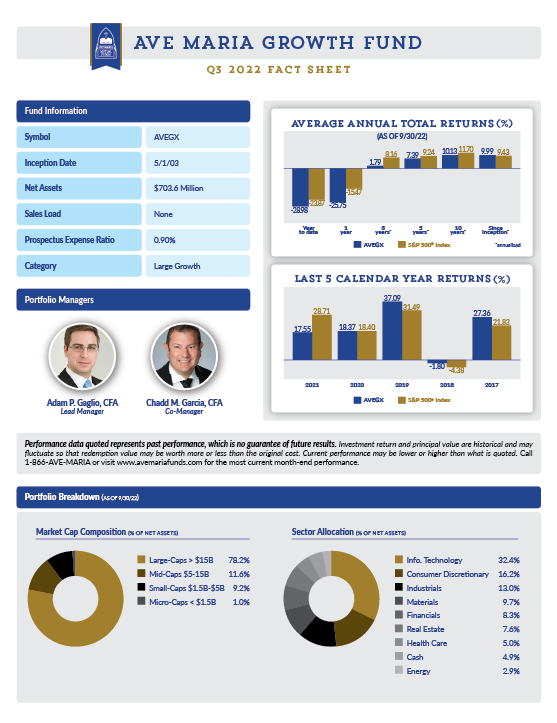
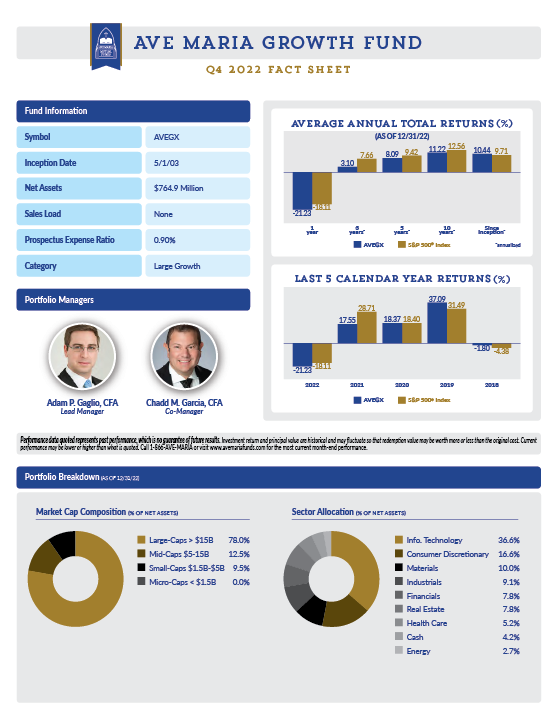
FACT SHEETS – 4Q 2022 new files

diff --git a/financial-insight/financial-advisor-resources.html b/financial-insight/financial-advisor-resources.html
@@ -250,75 +250,75 @@
                         <div class="col-lg-offset-3 col-lg-6 col-md-offset-3 col-md-6 col-sm-offset-1 col-sm-10 col-xs-offset-1 col-xs-10">
                             <ul>
                                 <li>
-                                    <a href="#" data-resource="../pdfs/financial-advisor-resources/AMMF talking-about-mri.pdf?v=3Q2022.1" class="am-login-required"> <span class="am-title">A Guide to Talking about Morally Responsible Investing</span> <span class="am-content">The who, what, and why about MRI</span> </a>
+                                    <a href="#" data-resource="../pdfs/financial-advisor-resources/AMMF talking-about-mri.pdf?v=4Q2022.1" class="am-login-required"> <span class="am-title">A Guide to Talking about Morally Responsible Investing</span> <span class="am-content">The who, what, and why about MRI</span> </a>
                                 </li>
                                 <li>
-                                    <a href="#" data-resource="../pdfs/financial-advisor-resources/AMMF history-of-consistency.pdf?v=3Q2022.1" class="am-login-required"> <span class="am-title">A History of Consistency</span> <span class="am-content">The Ave Maria Bond Fund is in exclusive company</span> </a>
+                                    <a href="#" data-resource="../pdfs/financial-advisor-resources/AMMF history-of-consistency.pdf?v=4Q2022.1" class="am-login-required"> <span class="am-title">A History of Consistency</span> <span class="am-content">The Ave Maria Bond Fund is in exclusive company</span> </a>
                                 </li>
                                 <li>
-                                    <a href="#" data-resource="../pdfs/financial-advisor-resources/AMMF intro-ammf.pdf?v=3Q2022.1" class="am-login-required"> <span class="am-title">An Introduction to Ave Maria Mutual Funds</span> <span class="am-content">Learn about our people, processes and structure</span> </a>
+                                    <a href="#" data-resource="../pdfs/financial-advisor-resources/AMMF intro-ammf.pdf?v=4Q2022.1" class="am-login-required"> <span class="am-title">An Introduction to Ave Maria Mutual Funds</span> <span class="am-content">Learn about our people, processes and structure</span> </a>
                                 </li>
                                 <li>
-                                    <a href="#" data-resource="../pdfs/financial-advisor-resources/AMMF experience-consistency.pdf?v=3Q2022.1" class="am-login-required"> <span class="am-title">Ave Maria Mutual Funds Experience and Consistency</span> <span class="am-content">Two key factors in choosing a mutual fund</span> </a>
+                                    <a href="#" data-resource="../pdfs/financial-advisor-resources/AMMF experience-consistency.pdf?v=4Q2022.1" class="am-login-required"> <span class="am-title">Ave Maria Mutual Funds Experience and Consistency</span> <span class="am-content">Two key factors in choosing a mutual fund</span> </a>
                                 </li>
                                 <li>
-                                    <a href="#" data-resource="../pdfs/financial-advisor-resources/AMMF investment-process.pdf?v=3Q2022.1" class="am-login-required"> <span class="am-title">Ave Maria Mutual Funds Investment Process</span> <span class="am-content">Learn more about how we manage money</span> </a>
+                                    <a href="#" data-resource="../pdfs/financial-advisor-resources/AMMF investment-process.pdf?v=4Q2022.1" class="am-login-required"> <span class="am-title">Ave Maria Mutual Funds Investment Process</span> <span class="am-content">Learn more about how we manage money</span> </a>
                                 </li>
                                 <li>
-                                    <a href="#" data-resource="../pdfs/financial-advisor-resources/AMMF profile.pdf?v=3Q2022.1" class="am-login-required"> <span class="am-title">Ave Maria Mutual Funds Profile</span> <span class="am-content">Who we are, what makes us different and what we do for our shareholders</span> </a>
+                                    <a href="#" data-resource="../pdfs/financial-advisor-resources/AMMF profile.pdf?v=4Q2022.1" class="am-login-required"> <span class="am-title">Ave Maria Mutual Funds Profile</span> <span class="am-content">Who we are, what makes us different and what we do for our shareholders</span> </a>
                                 </li>
                                 <li>
-                                    <a href="#" data-resource="../pdfs/financial-advisor-resources/AMMF bond-fund-highlights.pdf?v=3Q2022.1" class="am-login-required"> <span class="am-title">Bond Fund Highlights</span> <span class="am-content">Conservative, high-quality bond fund has delivered consistent results</span> </a>
+                                    <a href="#" data-resource="../pdfs/financial-advisor-resources/AMMF bond-fund-highlights.pdf?v=4Q2022.1" class="am-login-required"> <span class="am-title">Bond Fund Highlights</span> <span class="am-content">Conservative, high-quality bond fund has delivered consistent results</span> </a>
                                 </li>
                                 <li>
-                                    <a href="#" data-resource="../pdfs/financial-advisor-resources/AMMF bond-fund-presentation-book.pdf?v=3Q2022.1" class="am-login-required"> <span class="am-title">Bond Fund Presentation Book</span> <span class="am-content">Learn more about our people, process and performance</span> </a>
+                                    <a href="#" data-resource="../pdfs/financial-advisor-resources/AMMF bond-fund-presentation-book.pdf?v=4Q2022.1" class="am-login-required"> <span class="am-title">Bond Fund Presentation Book</span> <span class="am-content">Learn more about our people, process and performance</span> </a>
                                 </li>
                                 <li>
-                                    <a href="#" data-resource="../pdfs/financial-advisor-resources/AMMF equity-investment-process.pdf?v=3Q2022.1" class="am-login-required"> <span class="am-title">Equity Investment Process</span> <span class="am-content">Details on our buy and sell disciplines and how we control risk</span> </a>
+                                    <a href="#" data-resource="../pdfs/financial-advisor-resources/AMMF equity-investment-process.pdf?v=4Q2022.1" class="am-login-required"> <span class="am-title">Equity Investment Process</span> <span class="am-content">Details on our buy and sell disciplines and how we control risk</span> </a>
                                 </li>
                                 <li>
-                                    <a href="#" data-resource="../pdfs/financial-advisor-resources/AMMF focused-fund-presentation-book.pdf?v=3Q2022.1" class="am-login-required"> <span class="am-title">Focused Fund Presentation Book</span> <span class="am-content">Learn more about our people, process and performance</span> </a>
+                                    <a href="#" data-resource="../pdfs/financial-advisor-resources/AMMF focused-fund-presentation-book.pdf?v=4Q2022.1" class="am-login-required"> <span class="am-title">Focused Fund Presentation Book</span> <span class="am-content">Learn more about our people, process and performance</span> </a>
                                 </li>
                                 <li>
-                                    <a href="#" data-resource="../pdfs/financial-advisor-resources/AMMF growth-fund-presentation-book.pdf?v=3Q2022.1" class="am-login-required"> <span class="am-title">Growth Fund Presentation Book</span> <span class="am-content">Learn more about our people, process and investment results</span> </a>
+                                    <a href="#" data-resource="../pdfs/financial-advisor-resources/AMMF growth-fund-presentation-book.pdf?v=4Q2022.1" class="am-login-required"> <span class="am-title">Growth Fund Presentation Book</span> <span class="am-content">Learn more about our people, process and investment results</span> </a>
                                 </li>
                                 <li>
-                                    <a href="#" data-resource="../pdfs/financial-advisor-resources/AMMF growth-fund-qa.pdf?v=3Q2022.1" class="am-login-required"> <span class="am-title">Growth Fund Q&amp;A</span> <span class="am-content">Interview with portfolio management team</span> </a>
+                                    <a href="#" data-resource="../pdfs/financial-advisor-resources/AMMF growth-fund-qa.pdf?v=4Q2022.1" class="am-login-required"> <span class="am-title">Growth Fund Q&amp;A</span> <span class="am-content">Interview with portfolio management team</span> </a>
                                 </li>
                                 <li>
-                                    <a href="#" data-resource="../pdfs/financial-advisor-resources/AMMF investing-moral-high-ground.pdf?v=3Q2022.1" class="am-login-required"> <span class="am-title">Investing While Taking the Moral High Ground</span> <span class="am-content">Read our whitepaper on Morally Responsible Investing</span> </a>
+                                    <a href="#" data-resource="../pdfs/financial-advisor-resources/AMMF investing-moral-high-ground.pdf?v=4Q2022.1" class="am-login-required"> <span class="am-title">Investing While Taking the Moral High Ground</span> <span class="am-content">Read our whitepaper on Morally Responsible Investing</span> </a>
                                 </li>
                                 <li>
-                                    <a href="#" data-resource="../pdfs/financial-advisor-resources/AMMF managing-market-volatility.pdf?v=3Q2022.1" class="am-login-required"> <span class="am-title">Managing Market Volatility</span> <span class="am-content">How our funds perform in up and down markets</span> </a>
+                                    <a href="#" data-resource="../pdfs/financial-advisor-resources/AMMF managing-market-volatility.pdf?v=4Q2022.1" class="am-login-required"> <span class="am-title">Managing Market Volatility</span> <span class="am-content">How our funds perform in up and down markets</span> </a>
                                 </li>
                                 <li>
-                                    <a href="#" data-resource="../pdfs/financial-advisor-resources/AMMF prospecting-letter.pdf?v=3Q2022.1" class="am-login-required"> <span class="am-title">Prospecting Letter</span> <span class="am-content">Introduce your current or prospective clients to the Ave Maria Mutual Funds</span> </a>
+                                    <a href="#" data-resource="../pdfs/financial-advisor-resources/AMMF prospecting-letter.pdf?v=4Q2022.1" class="am-login-required"> <span class="am-title">Prospecting Letter</span> <span class="am-content">Introduce your current or prospective clients to the Ave Maria Mutual Funds</span> </a>
                                 </li>
                                 <li>
-                                    <a href="#" data-resource="../pdfs/financial-advisor-resources/AMMF retirement-reference-guide.pdf?v=3Q2022.1" class="am-login-required"> <span class="am-title">Retirement Reference Guide</span> <span class="am-content">Contribution limits, deductions and more</span> </a>
+                                    <a href="#" data-resource="../pdfs/financial-advisor-resources/AMMF retirement-reference-guide.pdf?v=4Q2022.1" class="am-login-required"> <span class="am-title">Retirement Reference Guide</span> <span class="am-content">Contribution limits, deductions and more</span> </a>
                                 </li>
                                 <li>
-                                    <a href="#" data-resource="../pdfs/financial-advisor-resources/AMMF rising-dividend-fund-highlights.pdf?v=3Q2022.1" class="am-login-required"> <span class="am-title">Rising Dividend Fund Highlights</span> <span class="am-content">Conservative, high-quality equity fund has delivered consistent results</span> </a>
-                                </li>
-
-                                <li>
-                                    <a href="#" data-resource="../pdfs/financial-advisor-resources/AMMF rising-dividend-fund-qa.pdf?v=3Q2022.1" class="am-login-required"> <span class="am-title">Rising Dividend Fund Q&amp;A</span> <span class="am-content">Interview with portfolio management team</span> </a>
+                                    <a href="#" data-resource="../pdfs/financial-advisor-resources/AMMF rising-dividend-fund-highlights.pdf?v=4Q2022.1" class="am-login-required"> <span class="am-title">Rising Dividend Fund Highlights</span> <span class="am-content">Conservative, high-quality equity fund has delivered consistent results</span> </a>
                                 </li>
 
                                 <li>
-                                    <a href="#" data-resource="../pdfs/financial-advisor-resources/AMMF rising-dividend-fund-presentation-book.pdf?v=3Q2022.1" class="am-login-required"> <span class="am-title">Rising Dividend Fund Presentation Book</span> <span class="am-content">Learn more about our people, process and performance</span> </a>
+                                    <a href="#" data-resource="../pdfs/financial-advisor-resources/AMMF rising-dividend-fund-qa.pdf?v=4Q2022.1" class="am-login-required"> <span class="am-title">Rising Dividend Fund Q&amp;A</span> <span class="am-content">Interview with portfolio management team</span> </a>
+                                </li>
+
+                                <li>
+                                    <a href="#" data-resource="../pdfs/financial-advisor-resources/AMMF rising-dividend-fund-presentation-book.pdf?v=4Q2022.1" class="am-login-required"> <span class="am-title">Rising Dividend Fund Presentation Book</span> <span class="am-content">Learn more about our people, process and performance</span> </a>
                                 </li>
                                 <li>
-                                    <a href="#" data-resource="../pdfs/financial-advisor-resources/AMMF rolling-performance-periods.pdf?v=3Q2022.1" class="am-login-required"> <span class="am-title">Rolling Performance Periods</span> <span class="am-content">A better way to illustrate what investors might experience</span> </a>
+                                    <a href="#" data-resource="../pdfs/financial-advisor-resources/AMMF rolling-performance-periods.pdf?v=4Q2022.1" class="am-login-required"> <span class="am-title">Rolling Performance Periods</span> <span class="am-content">A better way to illustrate what investors might experience</span> </a>
                                 </li>
                                 <li>
-                                    <a href="#" data-resource="../pdfs/financial-advisor-resources/AMMF case-for-mri.pdf?v=3Q2022.1" class="am-login-required"> <span class="am-title">The Case For Morally Responsible Investing</span> <span class="am-content">Do well by doing good</span> </a>
+                                    <a href="#" data-resource="../pdfs/financial-advisor-resources/AMMF case-for-mri.pdf?v=4Q2022.1" class="am-login-required"> <span class="am-title">The Case For Morally Responsible Investing</span> <span class="am-content">Do well by doing good</span> </a>
                                 </li>
                                 <li>
-                                    <a href="#" data-resource="../pdfs/financial-advisor-resources/AMMF value-fund-presentation-book.pdf?v=3Q2022.1" class="am-login-required"> <span class="am-title">Value Fund Presentation Book</span> <span class="am-content">Learn more about our people, process and investment results</span> </a>
+                                    <a href="#" data-resource="../pdfs/financial-advisor-resources/AMMF value-fund-presentation-book.pdf?v=4Q2022.1" class="am-login-required"> <span class="am-title">Value Fund Presentation Book</span> <span class="am-content">Learn more about our people, process and investment results</span> </a>
                                 </li>
                                 <li>
-                                    <a href="#" data-resource="../pdfs/financial-advisor-resources/AMMF world-equity-fund-presentation-book.pdf?v=3Q2022.1" class="am-login-required"> <span class="am-title">World Equity Presentation Book</span> <span class="am-content">Learn more about our people, process and performance</span> </a>
+                                    <a href="#" data-resource="../pdfs/financial-advisor-resources/AMMF world-equity-fund-presentation-book.pdf?v=4Q2022.1" class="am-login-required"> <span class="am-title">World Equity Presentation Book</span> <span class="am-content">Learn more about our people, process and performance</span> </a>
                                 </li>
                             </ul>
                         </div>

diff --git a/fund-family/index.html b/fund-family/index.html
@@ -332,7 +332,7 @@
                         </span>
                       </td>
                       <td class="am-link am-width-1-7th">
-                        <a class="am-bubble-cell am-lt-baby-blue" href="../pdfs/fact-sheets/AVEDX Fact Sheet 3Q2022.pdf?v=3Q2022">
+                        <a class="am-bubble-cell am-lt-baby-blue" href="../pdfs/fact-sheets/AVEDX Fact Sheet 4Q2022.pdf?v=3Q2022">
                           <img src="../img/common/pdf.png" alt="Fact Sheet PDF">
                         </a>
                       </td>
@@ -378,7 +378,7 @@
                         </span>
                       </td>
                       <td class="am-link am-width-1-7th">
-                        <a class="am-bubble-cell am-lt-baby-blue" href="../pdfs/fact-sheets/AVEGX Fact Sheet 3Q2022.pdf?v=3Q2022">
+                        <a class="am-bubble-cell am-lt-baby-blue" href="../pdfs/fact-sheets/AVEGX Fact Sheet 4Q2022.pdf?v=3Q2022">
                           <img src="../img/common/pdf.png" alt="Fact Sheet PDF">
                         </a>
                       </td>
@@ -424,7 +424,7 @@
                         </span>
                       </td>
                       <td class="am-link am-width-1-7th">
-                        <a class="am-bubble-cell am-lt-baby-blue" href="../pdfs/fact-sheets/AVEMX Fact Sheet 3Q2022.pdf?v=3Q2022">
+                        <a class="am-bubble-cell am-lt-baby-blue" href="../pdfs/fact-sheets/AVEMX Fact Sheet 4Q2022.pdf?v=3Q2022">
                           <img src="../img/common/pdf.png" alt="Fact Sheet PDF">
                         </a>
                       </td>
@@ -470,7 +470,7 @@
                         </span>
                       </td>
                       <td class="am-link am-width-1-7th">
-                        <a class="am-bubble-cell am-lt-baby-blue" href="../pdfs/fact-sheets/AVEWX Fact Sheet 3Q2022.pdf?v=3Q2022">
+                        <a class="am-bubble-cell am-lt-baby-blue" href="../pdfs/fact-sheets/AVEWX Fact Sheet 4Q2022.pdf?v=3Q2022">
                           <img src="../img/common/pdf.png" alt="Fact Sheet PDF">
                         </a>
                       </td>
@@ -516,7 +516,7 @@
                         </span>
                       </td>
                       <td class="am-link am-width-1-7th">
-                        <a class="am-bubble-cell am-lt-baby-blue" href="../pdfs/fact-sheets/AVEAX Fact Sheet 3Q2022.pdf?v=3Q2022">
+                        <a class="am-bubble-cell am-lt-baby-blue" href="../pdfs/fact-sheets/AVEAX Fact Sheet 4Q2022.pdf?v=3Q2022">
                           <img src="../img/common/pdf.png" alt="Fact Sheet PDF">
                         </a>
                       </td>
@@ -562,7 +562,7 @@
                         </span>
                       </td>
                       <td class="am-link am-width-1-7th">
-                        <a class="am-bubble-cell am-lt-baby-blue" href="../pdfs/fact-sheets/AVEFX Fact Sheet 3Q2022.pdf?v=3Q2022">
+                        <a class="am-bubble-cell am-lt-baby-blue" href="../pdfs/fact-sheets/AVEFX Fact Sheet 4Q2022.pdf?v=3Q2022">
                           <img src="../img/common/pdf.png" alt="Fact Sheet PDF">
                         </a>
                       </td>
@@ -1214,7 +1214,7 @@
                   <tbody>
                     <tr class="am-bubble-row">
                       <td class="am-link am-width-1-3rd">
-                        <a class="am-bubble-cell am-lt-baby-blue" href="../pdfs/fact-sheets/AMMF Money Market Fact Sheet 3Q2022.pdf?v=3Q2022">
+                        <a class="am-bubble-cell am-lt-baby-blue" href="../pdfs/fact-sheets/AMMF Money Market Fact Sheet 4Q2022.pdf?v=3Q2022">
                           <img src="../img/common/pdf.png" alt="PDF">
                         </a>
                       </td>

diff --git a/environments/preview/fund-family/index.html b/environments/preview/fund-family/index.html
@@ -611,7 +611,7 @@
                         </span>
                       </td>
                       <td class="am-link am-width-1-7th">
-                        <a class="am-bubble-cell am-lt-baby-blue" href="../pdfs/fact-sheets/AMMF Money Market Fact Sheet 3Q2022.pdf?v=3Q2022">
+                        <a class="am-bubble-cell am-lt-baby-blue" href="../pdfs/fact-sheets/AMMF Money Market Fact Sheet 4Q2022.pdf?v=3Q2022">
                           <img src="../img/common/pdf.png" alt="Fact Sheet PDF">
                         </a>
                       </td>
@@ -1217,7 +1217,7 @@
                   <tbody>
                     <tr class="am-bubble-row">
                       <td class="am-link am-width-1-3rd">
-                        <a class="am-bubble-cell am-lt-baby-blue" href="../pdfs/fact-sheets/AMMF Money Market Fact Sheet 3Q2022.pdf?v=3Q2022">
+                        <a class="am-bubble-cell am-lt-baby-blue" href="../pdfs/fact-sheets/AMMF Money Market Fact Sheet 4Q2022.pdf?v=3Q2022">
                           <img src="../img/common/pdf.png" alt="PDF">
                         </a>
                       </td>

diff --git a/_pgbackup/fund-family/aveax_1634217461.html b/_pgbackup/fund-family/aveax_1634217461.html
@@ -550,7 +550,7 @@
                     <tr class="am-bubble-row">
                       <td>
                         <span class="am-bubble-cell am-bright-green">
-                <a href="../pdfs/fact-sheets/AVEAX Fact Sheet 3Q2022.pdf?v=3Q2022.1" class="am-downloadable">
+                <a href="../pdfs/fact-sheets/AVEAX Fact Sheet 4Q2022.pdf?v=4Q2022.1" class="am-downloadable">
                   <img src="../img/fact-sheets/aveax.png"
                        alt="Value Fund Fact Sheet"
                        class="am-no-max-height am-cover" />

diff --git a/_pgbackup/fund-family/avedx_1634217470.html b/_pgbackup/fund-family/avedx_1634217470.html
@@ -549,7 +549,7 @@
                     <tr class="am-bubble-row">
                       <td>
                         <span class="am-bubble-cell am-bright-green">
-                <a href="../pdfs/fact-sheets/AVEDX Fact Sheet 3Q2022.pdf?v=3Q2022.1" class="am-downloadable">
+                <a href="../pdfs/fact-sheets/AVEDX Fact Sheet 4Q2022.pdf?v=4Q2022.1" class="am-downloadable">
                   <img src="../img/fact-sheets/avedx.png"
                        alt="Value Fund Fact Sheet"
                        class="am-no-max-height am-cover" />

diff --git a/_pgbackup/fund-family/avefx_1634217477.html b/_pgbackup/fund-family/avefx_1634217477.html
@@ -563,7 +563,7 @@
                     <tr class="am-bubble-row">
                       <td>
                         <span class="am-bubble-cell am-bright-green">
-                <a href="../pdfs/fact-sheets/AVEFX Fact Sheet 3Q2022.pdf?v=3Q2022.1" class="am-downloadable">
+                <a href="../pdfs/fact-sheets/AVEFX Fact Sheet 4Q2022.pdf?v=4Q2022.1" class="am-downloadable">
                   <img src="../img/fact-sheets/avefx.png"
                        alt="Value Fund Fact Sheet"
                        class="am-no-max-height am-cover" />

diff --git a/_pgbackup/fund-family/avegx_1634217484.html b/_pgbackup/fund-family/avegx_1634217484.html
@@ -549,7 +549,7 @@
                     <tr class="am-bubble-row">
                       <td>
                         <span class="am-bubble-cell am-bright-green">
-                <a href="../pdfs/fact-sheets/AVEGX Fact Sheet 3Q2022.pdf?v=3Q2022.1" class="am-downloadable">
+                <a href="../pdfs/fact-sheets/AVEGX Fact Sheet 4Q2022.pdf?v=4Q2022.1" class="am-downloadable">
                   <img src="../img/fact-sheets/avegx.png"
                        alt="Value Fund Fact Sheet"
                        class="am-no-max-height am-cover" />

diff --git a/_pgbackup/fund-family/avemx_1634217492.html b/_pgbackup/fund-family/avemx_1634217492.html
@@ -549,7 +549,7 @@
                     <tr class="am-bubble-row">
                       <td>
                         <span class="am-bubble-cell am-bright-green">
-                <a href="../pdfs/fact-sheets/AVEMX Fact Sheet 3Q2022.pdf?v=3Q2022.1" class="am-downloadable">
+                <a href="../pdfs/fact-sheets/AVEMX Fact Sheet 4Q2022.pdf?v=4Q2022.1" class="am-downloadable">
                   <img src="../img/fact-sheets/avemx.png"
                        alt="Value Fund Fact Sheet"
                        class="am-no-max-height am-cover" />

diff --git a/_pgbackup/fund-family/avewx_1634217500.html b/_pgbackup/fund-family/avewx_1634217500.html
@@ -550,7 +550,7 @@
                     <tr class="am-bubble-row">
                       <td>
                         <span class="am-bubble-cell am-bright-green">
-                <a href="../pdfs/fact-sheets/AVEWX Fact Sheet 3Q2022.pdf?v=3Q2022.1" class="am-downloadable">
+                <a href="../pdfs/fact-sheets/AVEWX Fact Sheet 4Q2022.pdf?v=4Q2022.1" class="am-downloadable">
                   <img src="../img/fact-sheets/avewx.png"
                        alt="Value Fund Fact Sheet"
                        class="am-no-max-height am-cover" />

diff --git a/fund-family/aveax.html b/fund-family/aveax.html
@@ -550,7 +550,7 @@
                     <tr class="am-bubble-row">
                       <td>
                         <span class="am-bubble-cell am-bright-green">
-                <a href="../pdfs/fact-sheets/AVEAX Fact Sheet 3Q2022.pdf?v=3Q2022.1" class="am-downloadable">
+                <a href="../pdfs/fact-sheets/AVEAX Fact Sheet 4Q2022.pdf?v=4Q2022.1" class="am-downloadable">
                   <img src="../img/fact-sheets/aveax.png"
                        alt="Value Fund Fact Sheet"
                        class="am-no-max-height am-cover" />

diff --git a/fund-family/avedx.html b/fund-family/avedx.html
@@ -549,7 +549,7 @@
                     <tr class="am-bubble-row">
                       <td>
                         <span class="am-bubble-cell am-bright-green">
-                <a href="../pdfs/fact-sheets/AVEDX Fact Sheet 3Q2022.pdf?v=3Q2022.1" class="am-downloadable">
+                <a href="../pdfs/fact-sheets/AVEDX Fact Sheet 4Q2022.pdf?v=4Q2022.1" class="am-downloadable">
                   <img src="../img/fact-sheets/avedx.png"
                        alt="Value Fund Fact Sheet"
                        class="am-no-max-height am-cover" />

diff --git a/fund-family/avefx.html b/fund-family/avefx.html
@@ -549,7 +549,7 @@
                     <tr class="am-bubble-row">
                       <td>
                         <span class="am-bubble-cell am-bright-green">
-                <a href="../pdfs/fact-sheets/AVEFX Fact Sheet 3Q2022.pdf?v=3Q2022.1" class="am-downloadable">
+                <a href="../pdfs/fact-sheets/AVEFX Fact Sheet 4Q2022.pdf?v=4Q2022.1" class="am-downloadable">
                   <img src="../img/fact-sheets/avefx.png"
                        alt="Value Fund Fact Sheet"
                        class="am-no-max-height am-cover" />
